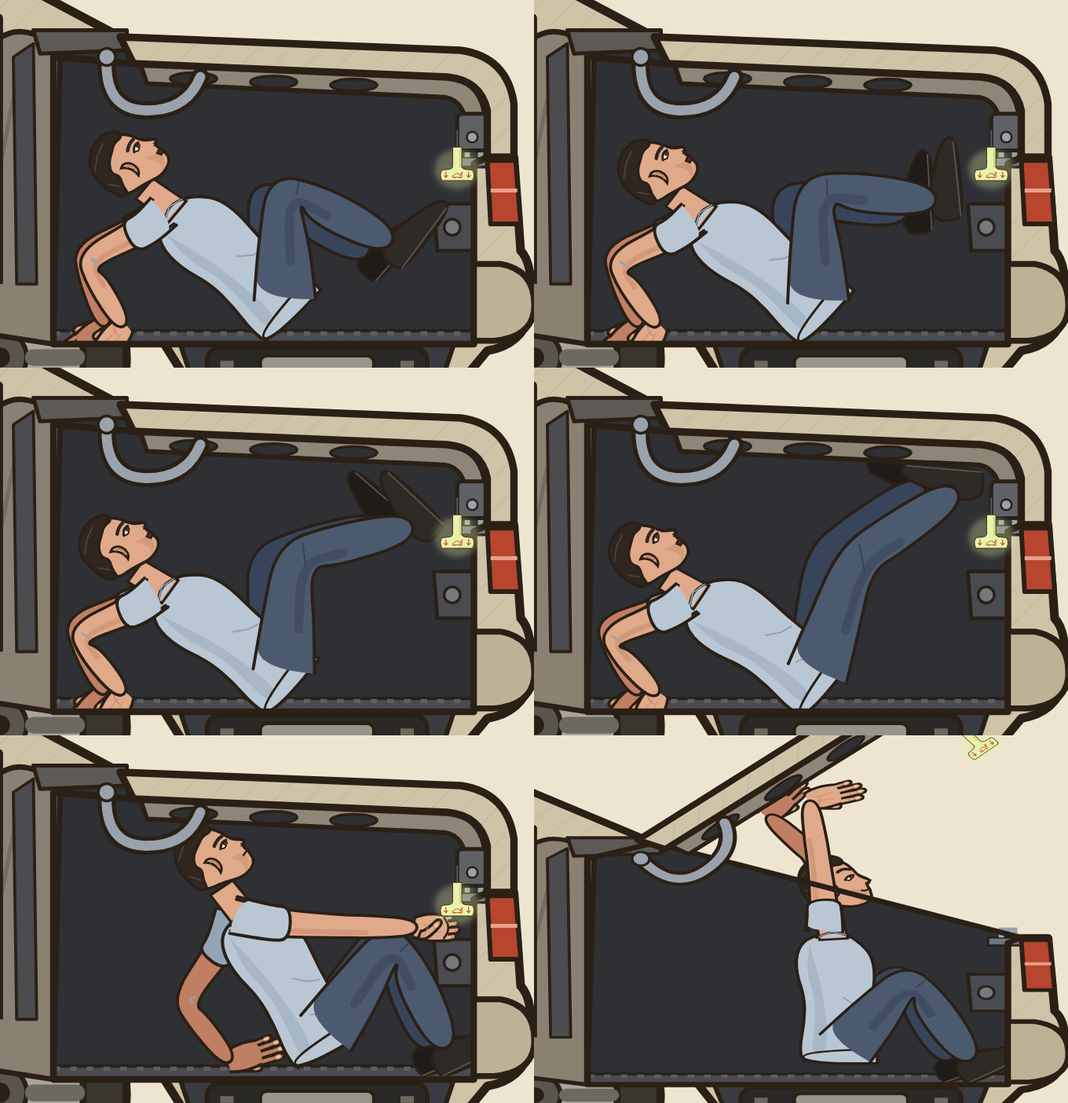
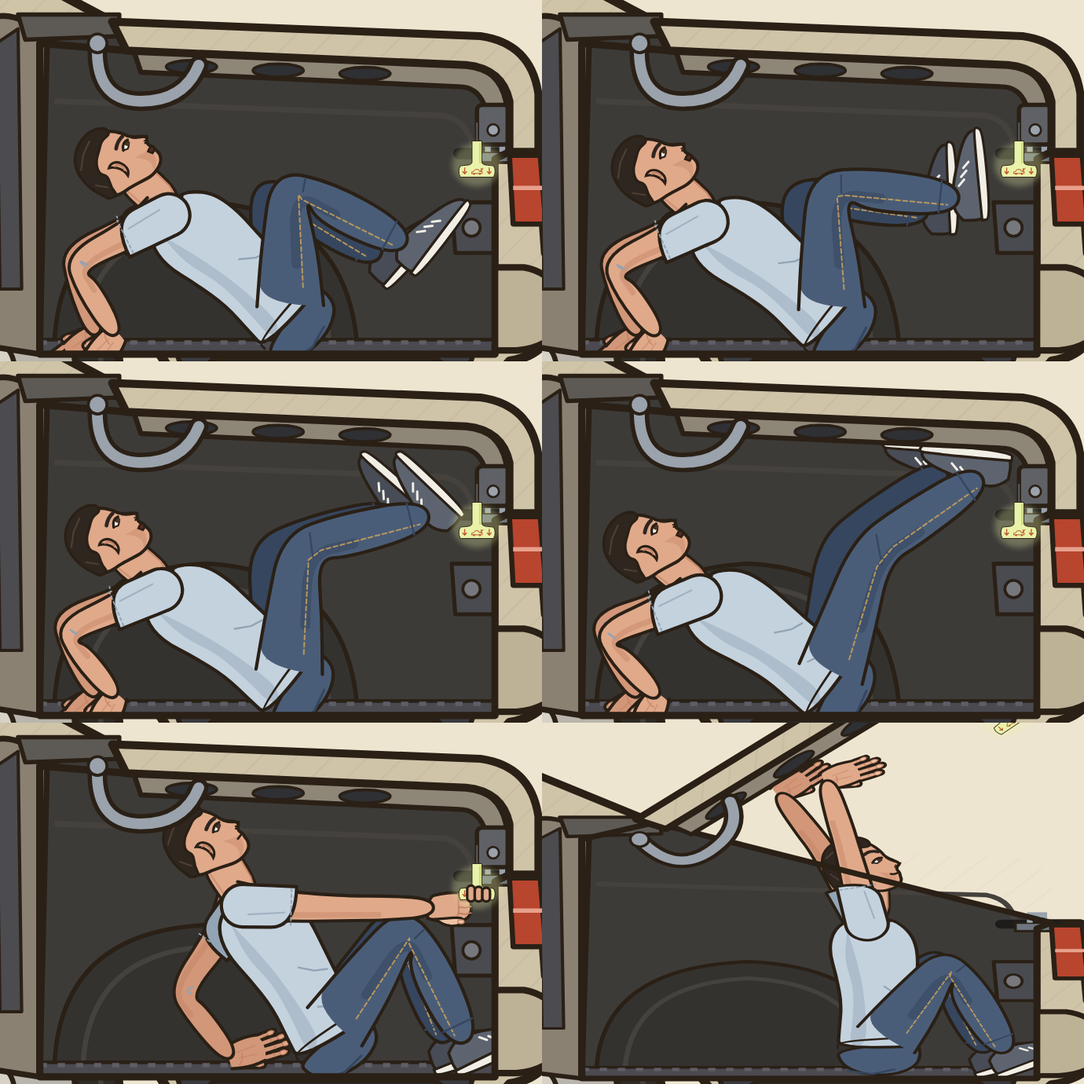
Person kit side view: neck, belt line, round sleeves, fist, jeans and sneakers; trunk-escape redrawn on real trunk photos
Claude-Session: https://claude.ai/code/session_01E23g9Wz2ZZM9xbT1iDgEt2

diff --git a/videos/_templates/people/person.js b/videos/_templates/people/person.js
@@ -360,9 +360,37 @@ function walkPose(ph, amp) {   // a walking cycle: ph in radians, both legs and 
   function leg(p) { var sw = Math.sin(p), k = Math.max(0, Math.sin(p + 2.07));   /* the knee bends most just after toe-off, straight while the foot is on the floor */ return { hip: 19 * sw * amp, knee: (6 + 58 * k * k) * amp, ankle: (sw > 0 ? -8 * sw : 14 * -sw) * amp }; }
   return { legs: [leg(ph), leg(ph + Math.PI)], arms: [{ sh: -20 * Math.sin(ph) * amp, el: (16 + 10 * Math.max(0, -Math.sin(ph))) * amp + 6, hand: "relaxed" }, { sh: 20 * Math.sin(ph) * amp, el: (16 + 10 * Math.max(0, Math.sin(ph))) * amp + 6, hand: "relaxed" }] };
 }
+// a short sleeve round the upper arm: hem at k of the upper arm, a round cap over the shoulder joint opposite the arm
+function pSleeve(sp, el, col, colD, k) {
+  var dx = el[0] - sp[0], dy = el[1] - sp[1], L = Math.hypot(dx, dy) || 1, ux = dx / L, uy = dy / L, nx = -uy, ny = ux, e = [sp[0] + dx * k, sp[1] + dy * k], hw = 14, pts = [];
+  pts.push([e[0] + nx * hw, e[1] + ny * hw]);
+  for (var a = -100; a <= 100; a += 20) { var r = a * Math.PI / 180, bx = -ux, by = -uy, cx = bx * Math.cos(r) - by * Math.sin(r), cy = bx * Math.sin(r) + by * Math.cos(r); pts.push([sp[0] + cx * 15 + nx * 0, sp[1] + cy * 15]); }
+  pts.reverse(); pts.unshift([e[0] - nx * hw, e[1] - ny * hw]);
+  var ring = [[e[0] - nx * hw, e[1] - ny * hw]].concat(pts.slice(1, pts.length - 1)).concat([[e[0] + nx * hw, e[1] + ny * hw]]);
+  var g = '<path d="' + pPath(ring, true) + '" fill="' + col + '" stroke="' + INK + '" stroke-width="2.3" stroke-linejoin="round"/>';
+  g += pLine([[e[0] - nx * hw * .9 - ux * 3.5, e[1] - ny * hw * .9 - uy * 3.5], [e[0] + nx * hw * .9 - ux * 3.5, e[1] + ny * hw * .9 - uy * 3.5]], colD, 1, ' stroke-dasharray="2 2"');
+  g += pLine([[sp[0] + nx * 6 + ux * 4, sp[1] + ny * 6 + uy * 4], [e[0] + nx * 4 - ux * 8, e[1] + ny * 4 - uy * 8]], colD, 1.2, ' opacity=".7"');
+  return g;
+}
+function pMixHex(a, b, k) { var x = parseInt(a.slice(1), 16), y = parseInt(b.slice(1), 16); return "#" + [16, 8, 0].map(function (sh) { var v = Math.round(((x >> sh) & 255) * (1 - k) + ((y >> sh) & 255) * k); return ("0" + v.toString(16)).slice(-2); }).join(""); }
+// a closed fist in profile: the knuckle block with four curled fingers stacked toward the viewer, the thumb folded across
+// them, the wrist flowing into the back of the hand. side ±1 puts the thumb on top or below.
+function pFistSide(w, ang, side, s, c) {
+  var ca = Math.cos(ang), sa = Math.sin(ang);
+  function P(x, y) { y *= side; return [w[0] + (x * ca - y * sa) * s, w[1] + (x * sa + y * ca) * s]; }
+  function D(pts) { return pPath(pts.map(function (p) { return P(p[0], p[1]); }), true); }
+  var g = '<path d="' + D([[-3, -7.5], [6, -10], [16, -10.5], [24, -8.5], [27.5, -3], [27, 4], [24, 9], [16, 10.5], [6, 9.5], [-3, 7.5]]) + '" fill="' + c.skin + '" stroke="' + INK + '" stroke-width="' + f(2.1 * s) + '" stroke-linejoin="round"/>';
+  // the curled fingers: three creases across the front, the knuckle ridge behind them
+  [-4.2, .2, 4.6].forEach(function (y) { g += pLine([P(18.5, y), P(23, y - .6), P(27, y + .3)], c.skinD, 1 * s); });
+  g += pLine([P(17, -9.5), P(18.5, -2), P(18, 9.5)], c.skinD, 1.1 * s, ' opacity=".8"');
+  g += '<path d="' + D([[2, -8], [10, -13], [19, -12.5], [22.5, -9.5], [20, -7], [11, -7.5]]) + '" fill="' + (c.skinL || c.skin) + '" stroke="' + INK + '" stroke-width="' + f(1.7 * s) + '"/>';   // the thumb
+  var n = P(20, -10); g += '<ellipse cx="' + f(n[0]) + '" cy="' + f(n[1]) + '" rx="' + f(2.2 * s) + '" ry="' + f(1.4 * s) + '" transform="rotate(' + f(ang * 180 / Math.PI) + ' ' + f(n[0]) + ' ' + f(n[1]) + ')" fill="' + (c.skinL || c.skin) + '" stroke="' + c.skinD + '" stroke-width="' + f(.7 * s) + '"/>';
+  return g;
+}
 function personSide(o) {
   var c = {}, k; for (k in PSN) c[k] = PSN[k];
   var OF = pOutfit(o, c);
+  c.skinM = pMixHex(c.skin, c.skinD, .45);
   var lean = (o.lean || 0) * Math.PI / 180, br = (o.breath || 0) * 1.4, fc = o.face || {}, hd = o.head || {};
   function T(h, x) { return [x * Math.cos(lean) + h * Math.sin(lean), -h * Math.cos(lean) + x * Math.sin(lean)]; }   // trunk frame: h up, x forward
   function V(a) { a = a * Math.PI / 180; return [Math.sin(a), Math.cos(a)]; }
@@ -380,17 +408,24 @@ function personSide(o) {
     var foot = [P(-14, -4), P(-15, 8), P(-10, 14), P(30, 14), P(46, 12), P(48, 6), P(40, 0), P(22, -6), P(6, -10), P(-8, -10)];
     var fcol = OF.feet === "socks" ? (i ? "#46464b" : c.socks) : (i ? "#1e1b18" : c.shoes);
     var boot = OF.feet === "boots" ? '<path d="' + pPath([P(-15, 6), P(-15, -24), P(12, -24), P(14, 0)], false) + '" fill="' + fcol + '" stroke="' + INK + '" stroke-width="2"/>' : "";
-    g = '<path d="' + pPath(foot, true) + '" fill="' + fcol + '" stroke="' + INK + '" stroke-width="2" stroke-linejoin="round"/>' + pLine([P(-12, 12), P(44, 11)], OF.feet === "socks" ? "#6e6e75" : "#5a534c", 1.1) + g + boot;
+    if (OF.jeans) g += pLine([L2p(top, kn, .15, 9), L2p(top, kn, .9, 7), L2p(kn, hem, .15, 6), L2p(kn, hem, .92, 5)], c.seam || "#c9a25a", 1.1, ' stroke-dasharray="3 2" opacity=".85"') + pLine([L2p(kn, hem, .86, -11), L2p(kn, hem, .86, 11)], c.pantsD, 1.3);
+    var sneak = OF.feet === "sneakers", sole = sneak ? '<path d="' + pPath([P(-15, 9), P(-15, 15), P(46, 15), P(50, 10), P(46, 8)], true) + '" fill="#f1eee6" stroke="' + INK + '" stroke-width="1.8"/>' + pLine([P(10, -5), P(14, -1)], "#f1eee6", 1.6) + pLine([P(16, -3), P(20, 1)], "#f1eee6", 1.6) + pLine([P(22, -1), P(26, 3)], "#f1eee6", 1.6) : "";
+    if (sneak) fcol = i ? (c.shoesD || "#4b4f58") : (c.shoes || "#646a75");
+    g = '<path d="' + pPath(foot, true) + '" fill="' + fcol + '" stroke="' + INK + '" stroke-width="2" stroke-linejoin="round"/>' + (sneak ? sole : pLine([P(-12, 12), P(44, 11)], OF.feet === "socks" ? "#6e6e75" : "#5a534c", 1.1)) + g + boot;
     part.leg[i] = g; if (!i) { J.knee = kn; J.ankle = an; J.toe = P(48, 6); J.heel = P(-14, 13); }
     J["foot" + i] = [P(-14, 14), P(48, 13)];
   });
   // ── trunk in profile: chest, back, the sweater's hem and collar ──
-  var fr = [[-4, 27], [10, 28], [30, 25], [56, 27 + br], [80, 31 + br], [98, 30], [110, 23], [120, 13]], bk = [[121, -13], [110, -25], [88, -28], [62, -23], [38, -25], [16, -30], [-2, -29]];
+  var tuck = OF.top === "shirt" || OF.over === "labcoat", hemH = tuck ? -2 : 5;
+  var fr = [[hemH, 25], [14, 26.5], [34, 24.5], [58, 27.5 + br], [82, 31 + br], [100, 30], [112, 24], [121, 14]], bk = [[123, -12], [114, -25], [96, -30], [72, -26.5], [46, -24.5], [22, -28], [hemH, -30]];
+  // the trousers' seat and waist (under the hem): one shape round the hip joint, so the buttock and the belt line read
+  var pelvis = '<path d="' + pPath([T(hemH + 3, 25.5), T(-4, 27), T(-14, 22), T(-20, 6), T(-18, -14), T(-8, -29), T(hemH + 3, -31)], true) + '" fill="' + c.pants + '" stroke="' + INK + '" stroke-width="2.3"/>' +
+    pLine([T(-14, -24), T(-18, -8), T(-15, 8)], c.pantsD, 1.6) + (tuck ? '<path d="' + pPath([T(5, 26), T(-1, 26.5), T(-1, -30.5), T(5, -30)], true) + '" fill="#3a2e24" stroke="' + INK + '" stroke-width="1.4"/>' : "");
   var torso = fr.concat(bk).map(function (q) { return T(q[0], q[1]); });
   var trunk = '<path d="' + pPath(torso, true) + '" fill="' + c.shirt + '" stroke="' + INK + '" stroke-width="2.4"/>';
   trunk += '<path d="' + pPath([T(112, -16), T(86, -20), T(60, -15), T(30, -18), T(8, -22), T(8, -10), T(40, -8), T(80, -10)], true) + '" fill="' + c.shirtD + '" opacity=".45"/>';
-  trunk += '<path d="' + pPath([T(2, 27), T(10, 27.5), T(10, -28), T(1, -28)], false) + '" stroke="' + INK + '" stroke-width="1.8" fill="none"/>';
-  if (OF.top === "sweater") for (var r = -24; r <= 24; r += 4) trunk += pLine([T(2.5, r), T(9, r)], c.shirtD, .9);
+  trunk += '<path d="' + pPath([T(hemH + 2, 25.5), T(hemH + 8, 26.5), T(hemH + 8, -29.5), T(hemH + 1, -30)], false) + '" stroke="' + INK + '" stroke-width="1.6" fill="none"/>';
+  if (OF.top === "sweater") for (var r = -24; r <= 24; r += 4) trunk += pLine([T(hemH + 1.5, r), T(hemH + 7, r)], c.shirtD, .9);
   if (OF.top === "shirt") { for (var bh = 96; bh > 14; bh -= 20) { var bp = T(bh, [26, 30, 28, 26, 27][Math.round((96 - bh) / 20)] - 3); trunk += '<circle cx="' + f(bp[0]) + '" cy="' + f(bp[1]) + '" r="1.6" fill="' + c.button + '" stroke="' + INK + '" stroke-width=".8"/>'; }
     if (OF.tie) trunk += '<path d="' + pPath([T(116, 12), T(110, 16), T(62, 31), T(58, 27), T(108, 11)], true) + '" fill="' + c.tie + '" stroke="' + INK + '" stroke-width="1.3"/>'; }
   if (OF.epaulettes) trunk += '<path d="M' + [T(121, -10), T(121, 10), T(116, 10), T(116, -10)].map(function (p) { return f(p[0]) + " " + f(p[1]); }).join(" L") + ' Z" fill="#262a36" stroke="' + INK + '" stroke-width="1.1"/>';
@@ -399,8 +434,11 @@ function personSide(o) {
   if (OF.over === "apron") trunk += '<path d="' + pPath([T(104, 30), T(104, 34), T(-64, 40), T(-66, 34)], true) + '" fill="' + c.apron + '" stroke="' + INK + '" stroke-width="2"/>' + pLine([T(104, 30), T(120, 12)], INK, 1.6) + pLine([T(20, 32), T(22, -30)], c.apronD, 3);
   trunk += pLine([T(60, 6), T(52, 14), T(48, 22)], c.shirtD, 1.3) + pLine([T(30, 2), T(24, 12)], c.shirtD, 1.2);
   // ── neck and head in profile, facing +x ──
-  var tilt = (hd.tilt || 0) + (o.lean || 0), hc = T(166 + br * .5, 6);
-  var neck = '<path d="M' + f(T(116, -8)[0]) + ' ' + f(T(116, -8)[1]) + ' L' + f(T(146, -10)[0]) + ' ' + f(T(146, -10)[1]) + ' L' + f(T(146, 10)[0]) + ' ' + f(T(146, 10)[1]) + ' L' + f(T(116, 13)[0]) + ' ' + f(T(116, 13)[1]) + ' Z" fill="' + c.skin + '" stroke="' + INK + '" stroke-width="2"/>' +
+  var tilt = (hd.tilt || 0) + (o.lean || 0), nj = T(144, 2), h0 = T(166 + br * .5, 6), ta = (hd.tilt || 0) * Math.PI / 180, ra = tilt * Math.PI / 180;
+  var hc = [nj[0] + (h0[0] - nj[0]) * Math.cos(ta) - (h0[1] - nj[1]) * Math.sin(ta), nj[1] + (h0[0] - nj[0]) * Math.sin(ta) + (h0[1] - nj[1]) * Math.cos(ta)];
+  function HW(x, y) { return [hc[0] + x * Math.cos(ra) - y * Math.sin(ra), hc[1] + x * Math.sin(ra) + y * Math.cos(ra)]; }
+  var neck = '<path d="' + pPath([T(112, -11), HW(-15, 9), HW(-8, 17), HW(6, 22), HW(12, 21), T(112, 13)], true) + '" fill="' + c.skin + '" stroke="' + INK + '" stroke-width="2"/>' +
+             pLine([HW(9, 23), L2p(HW(9, 23), T(114, 10), .5, -1.5), T(116, 8)], c.skinD, 1.2, ' opacity=".7"') + pLine([HW(-12, 12), T(118, -8)], c.skinD, 1.4, ' opacity=".5"') +
              '<path d="' + pPath([T(118, -11), T(124, 2), T(118, 15)], false) + '" stroke="' + INK + '" stroke-width="2" fill="' + c.shirt + '"/>' + pLine([T(119.5, -8), T(123, 2), T(119.5, 12)], c.shirtD, 1);
   var eo = fc.eyes == null ? 1 : fc.eyes, mo = fc.mouth || "neutral", h = "";
   var shape = [[-23, -4], [-19, -20], [-6, -28], [8, -26], [17, -18], [20.5, -8], [20.5, -4], [22, 0], [27.5, 7.5], [23, 10], [22.5, 12.5], [23, 15], [22, 17.5], [21, 22], [16, 25.5], [6, 25], [-2, 20], [-10, 15], [-17, 12], [-22, 6]];
@@ -428,18 +466,19 @@ function personSide(o) {
     var coat = OF.over === "labcoat", sc = coat ? (i ? c.coatD : c.coat) : (i ? c.shirtD : c.shirt), g;
     if (OF.top === "tshirt" && !coat) {
       var bare = [T(124, -4), L2p(sp, el, .35, 0), el, L2p(el, wr, .35, 0), wr], bw = [24, 21, 17, 17, 13];
-      g = pLimbDraw(pLimb(bare, bw, false), i ? c.skinD : c.skin, 1, pShade(bare, bw, c.skinD, 1, .4), 2.2) + pLimbDraw(pLimb([T(124, -4), L2p(sp, el, .3, 0), L2p(sp, el, .5, 0)], [28, 26, 25], false), sc, 1, "", 2.3);
+      g = pLimbDraw(pLimb(bare, bw, false), i ? c.skinM : c.skin, 1, pShade(bare, bw, c.skinD, 1, .4), 2.2) + pSleeve(sp, el, sc, i ? c.shirtD : c.shirtD, .5);
     } else {
       g = pLimbDraw(pLimb(ap, aw, false), sc, 1, pShade(ap, aw, coat ? c.coatD : c.shirtD, 1, i ? .3 : .55), 2.3);
       g += pLimbDraw(pLimb([cuff, [el[0] + V(fa)[0] * 59, el[1] + V(fa)[1] * 59]], [17.5, 16.5], false), coat ? (i ? c.shirtD : c.shirt) : sc, 1, "", 2);
     }
     if ((A.el || 0) > 25) g += '<path d="' + pPath([L2p(el, sp, .12, 6), [el[0] + 4, el[1] + 2], L2p(el, wr, .12, -6)], false) + '" stroke="' + c.shirtD + '" stroke-width="1.3" fill="none"/>';
     var ha = Math.atan2(V(fa + (A.wrist || 0))[1], V(fa + (A.wrist || 0))[0]);
-    g = G("", pHand([wr[0] - Math.cos(ha) * 1, wr[1] - Math.sin(ha) * 1], ha, A.hand || "relaxed", -1, 1, i ? Object.assign({}, c, { skin: c.skinD }) : c, false)) + g;
+    var hc_ = i ? Object.assign({}, c, { skin: c.skinM, skinL: c.skin }) : c;
+    g = G("", (A.hand === "fist" ? pFistSide([wr[0] - Math.cos(ha) * 1, wr[1] - Math.sin(ha) * 1], ha, A.grip ? 1 : -1, 1, hc_) : pHand([wr[0] - Math.cos(ha) * 1, wr[1] - Math.sin(ha) * 1], ha, A.hand || "relaxed", -1, 1, hc_, false))) + g;
     part.arm[i] = g; if (!i) { J.wrist = wr; J.elbow = el; }
   });
   var coatSvg = OF.over === "labcoat" ? '<path d="' + pPath([T(121, -14), T(121, 16), T(96, 34), T(30, 32), T(-66, 38), T(-68, -34), T(30, -32), T(96, -30)], true) + '" fill="' + c.coat + '" stroke="' + INK + '" stroke-width="2.2"/>' + pLine([T(112, 18), T(70, 30), T(60, 33)], c.coatD, 2) + pLine([T(-10, 30), T(-60, 34)], c.coatD, 1.3) : "";
-  var body = part.arm[1] + part.leg[1] + trunk + part.leg[0] + coatSvg + neck + head + part.arm[0];
+  var body = part.arm[1] + part.leg[1] + pelvis + trunk + part.leg[0] + coatSvg + neck + head + part.arm[0];
   var s = o.s || 1, dir = o.dir || 1;
   J.toLocal = function (p) { return p; };
   var tr = "translate(" + f(o.x) + " " + f(o.y) + ") rotate(" + f(o.rot || 0) + ") scale(" + f(s * dir) + " " + f(s) + ")";

diff --git a/videos/trunk-escape/sketch/scenes.js b/videos/trunk-escape/sketch/scenes.js
@@ -167,7 +167,7 @@ function tag(text, x, y, k, sz, col) { k = pop(k == null ? 1 : k); if (k <= 0) r
 
 function L2(a, b, k) { return [lerp(a[0], b[0], k), lerp(a[1], b[1], k)]; }
 function D2R(a) { return a * Math.PI / 180; }
-var BODY = "#cfc4a8", BODY_D = "#b3a585", GLASS = "#cfdde3", DARK = "#2f3034", DARK2 = "#3c3d42", CARPET = "#4a4a50",
+var LINING = "#3d3b38", BODY = "#cfc4a8", BODY_D = "#b3a585", GLASS = "#cfdde3", DARK = "#2f3034", DARK2 = "#3c3d42", CARPET = "#4a4a50",
     STEEL = "#9aa2ac", STEEL_D = "#6e757e", GLOW = "#e9f2a8", GLOW_D = "#b9c86a", TAIL = "#b8452e", SEAT = "#8a8173";
 
 // ── the car: a compact sedan in profile, front to the left, real size (1 m = 120 units): length 4.8 m, height 1.47 m,
@@ -186,8 +186,11 @@ var LID = "M456 -134 L558 -130 Q572 -128 574 -114 L574 -98 L566 -98 L566 -112 Q5
 var TRUNK = "M436 -128 L460 -126 L554 -122 Q564 -121 566 -112 L566 -98 L562 -96 L562 -42 L436 -42 Z";
 var TRUNK_OPEN = "M436 -128 L456 -134 L566 -98 L562 -96 L562 -42 L436 -42 Z", TRUNK_AIR = "M436 -128 L456 -134 L456 -400 L800 -400 L800 -98 L562 -96 L562 -42 L436 -42 Z";
 var FLOOR = -46, LATCH = [565, -102], RW = 420;
-function wheel(x, t, spin, sw) { var a = (spin || 0) * t * 200, s = C(x, -38, 38, "#3a352e", 2.4 * sw) + C(x, -38, 25, "#a9a59c", 2 * sw) + C(x, -38, 8, "#5a554d", 1.4 * sw) + C(x, -38, 3, INK, 0);
-  for (var i = 0; i < 5; i++) { var b = (a + i * 72) * Math.PI / 180; s += '<path d="M' + f(x + Math.cos(b) * 10) + ' ' + f(-38 + Math.sin(b) * 10) + ' L' + f(x + Math.cos(b) * 23) + ' ' + f(-38 + Math.sin(b) * 23) + '" stroke="#6e695f" stroke-width="' + f(5 * sw) + '" stroke-linecap="round"/>'; } return s; }
+function wheel(x, t, spin, sw) {
+  var a = (spin || 0) * t * 200, s = C(x, -38, 38, "#2f2b26", 2.4 * sw) + '<circle cx="' + x + '" cy="-38" r="33" fill="none" stroke="#45403a" stroke-width="' + f(1.4 * sw) + '"/>' + C(x, -38, 26, "#b9b5ac", 2 * sw);
+  for (var i = 0; i < 10; i++) { var b = (a + i * 36) * Math.PI / 180, b2 = b + .12; s += '<path d="M' + f(x + Math.cos(b) * 8) + ' ' + f(-38 + Math.sin(b) * 8) + ' L' + f(x + Math.cos(b) * 24) + ' ' + f(-38 + Math.sin(b) * 24) + ' L' + f(x + Math.cos(b2) * 24) + ' ' + f(-38 + Math.sin(b2) * 24) + ' Z" fill="#8f8a80" stroke="#77726a" stroke-width=".6"/>'; }
+  return s + C(x, -38, 9, "#d6d2c8", 1.4 * sw) + C(x, -38, 3, INK, 0);
+}
 // the lid's inside: inner panel frame with holes, the gooseneck arm, the latch box at its rear edge (all in closed-lid coords)
 function lidInner(sw, lidIn) {
   var g = P("M462 -126 L554 -122 Q563 -121 565 -112 L565 -104 L559 -104 L559 -111 Q557 -116 552 -116 L464 -120 Z", "#8e8778", 1.4 * sw);
@@ -204,6 +207,7 @@ function car(o) {
   var t = o.t || 0, sc = o.sc || 1, sw = 1 / Math.sqrt(sc), g = "";
   g += '<ellipse cx="290" cy="2" rx="290" ry="8" fill="' + INK + '" opacity=".14"/>';
   g += P(CAR_P, BODY, 2.6 * sw) + '<path d="' + CAR_P + '" fill="url(#hatch)" opacity=".3"/>';
+  g += '<path d="M160 -52 H372" stroke="' + BODY_D + '" stroke-width="' + f(2 * sw) + '"/><path d="M40 -80 Q200 -86 420 -91" stroke="' + BODY_D + '" stroke-width="' + f(1.2 * sw) + '" fill="none"/>';
   g += P(CABIN, "#efe6d2", 1.6 * sw);
   g += P("M154 -98 L202 -102 L204 -86 L156 -72 Z", "#7c7468", 1.6 * sw);
   g += P("M216 -66 L280 -66 L284 -52 L218 -50 Z", SEAT, 1.6 * sw) + P("M276 -66 L296 -146 Q304 -150 308 -142 L296 -58 Z", SEAT, 1.6 * sw) + R(294, -160, 16, 18, SEAT, 1.4 * sw, 4);
@@ -211,7 +215,10 @@ function car(o) {
   g += wheel(112, t, o.spin, sw) + wheel(RW, t, o.spin, sw);
   // ── the trunk, cut on the centre line ──
   var tid = "tr" + (++CLIPN), lk = clamp((o.lid || 0) * 4);
-  g += P(TRUNK_OPEN, DARK, 1.6 * sw) + G("", P(TRUNK, DARK, 0), 1 - lk);
+  g += P(TRUNK_OPEN, LINING, 1.6 * sw) + G("", P(TRUNK, LINING, 0), 1 - lk) + '<path d="' + TRUNK + '" fill="url(#hatch)" opacity=".18"/>';
+  // the far side's wheel housing (carpeted hump) and the side lining's moulded edge, seen through the cut
+  g += P("M440 -42 Q440 -82 482 -84 Q522 -82 524 -42 Z", "#34322f", 1.2 * sw) + '<path d="M448 -46 Q450 -76 482 -78 Q514 -76 516 -46" fill="none" stroke="#45423e" stroke-width="' + f(1.4 * sw) + '"/>';
+  g += '<path d="M440 -112 Q500 -110 548 -108 Q556 -106 556 -96" fill="none" stroke="#45423e" stroke-width="' + f(1.6 * sw) + '"/>';
   // the rear seat's back (the trunk's front wall) with its belt, and the parcel shelf
   g += P("M404 -62 L418 -132 Q424 -138 432 -134 L438 -128 L436 -42 L410 -46 Z", SEAT, 1.6 * sw) + '<path d="M414 -64 L426 -126" stroke="#766d60" stroke-width="' + f(1.2 * sw) + '"/>' + P("M424 -128 L430 -132 L431 -60 L425 -60 Z", "#4c4b4f", .9 * sw);
   g += P("M430 -136 L458 -136 L458 -130 L432 -129 Z", "#5d5a55", 1.2 * sw);
@@ -222,7 +229,7 @@ function car(o) {
   g += R(436, FLOOR, 126, 4, CARPET, 1 * sw) + '<path d="M436 ' + (FLOOR + .8) + ' H562" stroke="#5e5e66" stroke-width="' + f(1.2 * sw) + '" stroke-dasharray="2 3"/>';
   // the back of the rear lamp housing in the corner, with its bulb holder; the rear sill and the striker
   g += P("M550 -84 L562 -84 L562 -70 L551 -70 Z", "#4a4b50", 1.1 * sw) + C(555.5, -77, 2.4, "#77787d", .8 * sw);
-  g += R(556, -98, 10, 3, STEEL_D, .8 * sw) + '<path d="M560 -98 L560 -101 L564 -101 L564 -98" fill="none" stroke="' + STEEL + '" stroke-width="' + f(1.6 * sw) + '"/>';
+  g += '<path d="M552 -97.5 H567" stroke="#1d1c1b" stroke-width="' + f(3.2 * sw) + '" stroke-linecap="round"/>' + R(556, -98, 10, 3, STEEL_D, .8 * sw) + '<path d="M560 -98 L560 -101 L564 -101 L564 -98" fill="none" stroke="' + STEEL + '" stroke-width="' + f(1.6 * sw) + '"/>';
   g += '<clipPath id="' + tid + '"><path d="' + (lk > 0 ? TRUNK_AIR : TRUNK) + '"/></clipPath><g clip-path="url(#' + tid + ')">';
   if (o.people) g += o.people(t);
   if (o.dark) g += '<rect x="420" y="-140" width="160" height="100" fill="#000" opacity="' + f(.2 * o.dark) + '"/>';
@@ -230,12 +237,13 @@ function car(o) {
   // windows, pillars, doors, lights, bumper, plate
   g += '<g opacity=".7"><path d="' + WIN_F + '" fill="' + GLASS + '"/><path d="' + WIN_R + '" fill="' + GLASS + '"/></g>' + P(WIN_F, "none", 2 * sw) + P(WIN_R, "none", 2 * sw) + R(300, -166, 10, 120, BODY, 2 * sw);
   g += '<path d="M160 -118 L156 -48 M300 -118 L300 -46 M420 -140 L420 -60" stroke="' + INK + '" stroke-width="' + f(1.8 * sw) + '" fill="none"/>' + R(258, -102, 22, 6, INK, 0, 3) + R(390, -102, 22, 6, INK, 0, 3);
-  g += P("M6 -88 L26 -96 L28 -86 L8 -82 Z", "#f4efe3", 1.4 * sw);
+  g += P("M6 -88 L26 -96 L28 -86 L8 -82 Z", "#f4efe3", 1.4 * sw) + P("M226 -118 L246 -122 L248 -110 L230 -108 Z", BODY_D, 1.4 * sw);
   g += P("M566 -97 L574.5 -97 L576 -78 L567 -78 Z", TAIL, 1.4 * sw, o.hlTail ? ' style="filter:drop-shadow(0 0 ' + f(5 * o.hlTail) + 'px ' + ORANGE + ')"' : "") + '<path d="M567 -88 H575" stroke="#e7a08c" stroke-width="' + f(1.2 * sw) + '"/>';
   g += P("M570 -66 Q581 -64 580 -52 Q579 -44 568 -43 L562 -43 L562 -66 Z", "#bdb196", 1.8 * sw);
   // the lid: outer skin and the inner frame turn together round the gooseneck pivot; a kick makes it jolt
   var ang = -55 * ease(clamp(o.lid || 0)) - 1.4 * (o.shake || 0);
   g += G("rotate(" + f(ang) + " " + HINGE[0] + " " + HINGE[1] + ")", lidInner(sw, o.lidIn) + P(LID, BODY, 2.2 * sw) + '<path d="' + LID + '" fill="url(#hatch)" opacity=".3"/>');
+  if (o.over) g += o.over(t);   // what sits in front of the lid's parts: the fingers closed round the handle
   return G("translate(" + f(o.x) + " " + f(o.y) + ") scale(" + f(sc) + ") translate(-570 0)", g);
 }
 
@@ -263,7 +271,7 @@ function trapped(o) {
   var legs = o.feet.map(function (a, i) { var L = legTo(hip, a, rot); L.ankle = (o.ankle && o.ankle.length ? o.ankle[i] : o.ankle) || 0; return L; });
   var rest = [[hip[0] - 14, FLOOR - 1], [hip[0] - 20, FLOOR - 1]];
   var arms = [0, 1].map(function (i) { var w = (o.hands && o.hands[i]) || rest[i], A = armTo(sh, w, rot, o.straight && o.straight[i]); A.hand = (o.hk && o.hk[i]) || "flat"; if (o.wrist) A.wrist = o.wrist[i]; return A; });
-  var P_ = PERSON.side({ x: hip[0], y: hip[1], s: PS, dir: DIR, rot: rot, outfit: { base: "casual", colors: { shirt: "#b9c7d4", shirtD: "#93a4b4", pants: "#4b5a6e", pantsD: "#38445a" } }, breath: (Math.sin(t * 3.1) + 1) / 2, legs: legs, arms: arms,
+  var P_ = PERSON.side({ x: hip[0], y: hip[1], s: PS, dir: DIR, rot: rot, outfit: { base: "casual", jeans: true, feet: "sneakers", colors: { shirt: "#c4d2de", shirtD: "#93a4b4", pants: "#4a5d78", pantsD: "#36465e", shoes: "#5d6470", shoesD: "#474c56" } }, breath: (Math.sin(t * 3.1) + 1) / 2, legs: legs, arms: arms,
     head: { tilt: o.tilt || 0 }, face: Object.assign({ eyes: 1.2, brows: "worried", mouth: "open" }, o.face || {}) });
   return P_.svg;
 }
@@ -280,6 +288,10 @@ function reachPose(hand, t, o) {
   o = o || {};
   return trapped(Object.assign({ hip: HIP_R, rot: -34, feet: FEET_R, ankle: 0, hands: [hand, [486, FLOOR - 1]], hk: ["fist", "flat"], wrist: [0, 70], t: t, tilt: -16, face: { eyes: 1.1, brows: "angry", mouth: "neutral" } }, o));
 }
+// the fingers closed round the handle's stem (drawn over the handle): the front of the fist, three creases
+function gripFingers(p, k) { p = p || GRIP; var c = PERSON.colors, g = ""; [-2.1, 0, 2.1].forEach(function (dx, i) { g += '<rect x="' + f(p[0] + dx - 1.05) + '" y="' + f(p[1] - 2.3 + i * .3) + '" width="2.1" height="' + f(4.4 - i * .3) + '" rx="1" fill="' + c.skin + '" stroke="' + INK + '" stroke-width=".7"/>'; }); return G("", g, k == null ? 1 : k); }
+// the wrist target that puts the fist's middle on point p, coming from the shoulder
+function wristFor(p, hip, rot) { var sh = kitW(hip[0], hip[1], rot, [-2, -117]), dx = p[0] - sh[0], dy = p[1] - sh[1], L = Math.hypot(dx, dy); return [p[0] - dx / L * 6, p[1] - dy / L * 6]; }
 function kickK(t, per) { var p = (t % per) / per; return p < .25 ? ease(p / .25) : 1 - ease((p - .25) / .75); }
 function kickHit(t, per) { var p = (t % per) / per; return p > .22 && p < .4 ? 1 - Math.abs(p - .28) / .12 : 0; }
 // impact star at a hit
@@ -346,7 +358,7 @@ function latchCut(cx, cy, s, open, hl, t) {
 // rear bumper at world (X, Y); Wp(local) gives the world point of a local car point.
 var X = 610, Y = 690, S = 3.6;
 function Wp(p, x, y, sc) { return [(x || X) + (p[0] - 570) * (sc || S), (y || Y) + p[1] * (sc || S)]; }
-var HD = [557, -101];   // where the handle hangs under the lid (local)
+var HD = [557, -101], GRIP = [HD[0] + .4, HD[1] + 8.4];   // where the handle hangs under the lid (local)
 function handleSmall(gl, pull, t) { return '<g transform="translate(' + HD[0] + ' ' + HD[1] + ') scale(.085)">' + handleT(0, 0, 1, gl, pull, t) + '</g>'; }
 function road(t, y, run) { return R(-600, y, 1840, 400, "#cbc2ad", 0) + '<path d="M-600 ' + y + ' H1240" stroke="' + INK + '" stroke-width="2.4"/>' + '<path d="M-600 ' + f(y + 50) + ' H1240" stroke="#efe9da" stroke-width="6" stroke-dasharray="54 40" stroke-dashoffset="' + f((run || 0) * t * 90) + '"/>'; }
 var FACE_KICK = { eyes: 1.25, brows: "angry", mouth: "open" };
@@ -391,8 +403,8 @@ shot(8, push(330, 420, 1.0, 1.04), function (u, d, t) {
 // 9 · «اسحبه، وبعدين زق الغطا لفوق.» — the fist pulls the handle down, the latch lets go, both hands push the lid up
 function lidPt(p, lid) { var a = D2R(-55 * ease(clamp(lid))), dx = p[0] - HINGE[0], dy = p[1] - HINGE[1]; return [HINGE[0] + dx * Math.cos(a) - dy * Math.sin(a), HINGE[1] + dx * Math.sin(a) + dy * Math.cos(a)]; }
 shot(9, push(330, 430, 1.0, .9), function (u, d, t) {
-  var pull = at(u, .3, .5), lid = .6 * at(u, 1.3, 1.6), g = [HD[0] - 1, HD[1] + 10 + 4 * pull], hk = lid;
-  return paper() + road(0, Y) + car({ x: X, y: Y, sc: S, t: t, lid: lid, lidIn: handleSmall(1, pull * (1 - clamp(lid * 3)), t), people: function (tt) {
+  var pull = at(u, .3, .5), lid = .6 * at(u, 1.3, 1.6), gp = [GRIP[0], GRIP[1] + 3.4 * pull * (1 - clamp(lid * 3))], g = wristFor(gp, HIP_R, -34), hk = lid;
+  return paper() + road(0, Y) + car({ x: X, y: Y, sc: S, t: t, lid: lid, lidIn: handleSmall(1, pull * (1 - clamp(lid * 3)), t), over: function () { return lid < .02 ? gripFingers(gp) : ""; }, people: function (tt) {
       var h0 = lid > 0 ? lidPt([512, -122], hk) : g, h1 = lid > 0 ? lidPt([496, -124], hk) : null;
       if (lid > 0 && lid < .15) h0 = L2(g, h0, lid / .15);
       return reachPose(h0, tt, { rot: lerp(-34, -4, lid / .6), hands: [h0, h1 ? (lid < .15 ? L2([462, -54], h1, lid / .15) : h1) : null], hk: ["fist", lid > 0 ? "flat" : "relaxed"], wrist: lid > 0 ? [-80, -80] : null,
@@ -422,6 +434,6 @@ SCENE.intro = function (svg, t, li) {
 };
 SCENE.bumper = function (u, t) { return '<g transform="translate(90 40) scale(.55)">' + handleT(0, 20, 1, 1, 0, t) + '</g>'; };
 SCENE.outro = function (svg, u, t) {
-  return car({ x: 590, y: 270, sc: .98, t: t, lidIn: handleSmall(1, 0, t), people: function (tt) { return reachPose([HD[0] - 1, HD[1] + 10], tt, { face: { eyes: 1, brows: "raised", mouth: "smile" } }); } }) +
+  return car({ x: 590, y: 270, sc: .98, t: t, lidIn: handleSmall(1, 0, t), people: function (tt) { return reachPose(wristFor(GRIP, HIP_R, -34), tt, { face: { eyes: 1, brows: "raised", mouth: "smile" } }); }, over: function () { return gripFingers(); } }) +
     callout("1", 470, 60, ease(u / .3)) + callout("2", 548, 120, ease(u / .3 - .5)) + callout("3", 120, 60, ease(u / .3 - 1)) + callout("4", 380, 120, ease(u / .3 - 1.5));
 };

diff --git a/videos/trunk-escape/sketch/shots.js b/videos/trunk-escape/sketch/shots.js
@@ -6,7 +6,7 @@
 
 function L2(a, b, k) { return [lerp(a[0], b[0], k), lerp(a[1], b[1], k)]; }
 function D2R(a) { return a * Math.PI / 180; }
-var BODY = "#cfc4a8", BODY_D = "#b3a585", GLASS = "#cfdde3", DARK = "#2f3034", DARK2 = "#3c3d42", CARPET = "#4a4a50",
+var LINING = "#3d3b38", BODY = "#cfc4a8", BODY_D = "#b3a585", GLASS = "#cfdde3", DARK = "#2f3034", DARK2 = "#3c3d42", CARPET = "#4a4a50",
     STEEL = "#9aa2ac", STEEL_D = "#6e757e", GLOW = "#e9f2a8", GLOW_D = "#b9c86a", TAIL = "#b8452e", SEAT = "#8a8173";
 
 // ── the car: a compact sedan in profile, front to the left, real size (1 m = 120 units): length 4.8 m, height 1.47 m,
@@ -25,8 +25,11 @@ var LID = "M456 -134 L558 -130 Q572 -128 574 -114 L574 -98 L566 -98 L566 -112 Q5
 var TRUNK = "M436 -128 L460 -126 L554 -122 Q564 -121 566 -112 L566 -98 L562 -96 L562 -42 L436 -42 Z";
 var TRUNK_OPEN = "M436 -128 L456 -134 L566 -98 L562 -96 L562 -42 L436 -42 Z", TRUNK_AIR = "M436 -128 L456 -134 L456 -400 L800 -400 L800 -98 L562 -96 L562 -42 L436 -42 Z";
 var FLOOR = -46, LATCH = [565, -102], RW = 420;
-function wheel(x, t, spin, sw) { var a = (spin || 0) * t * 200, s = C(x, -38, 38, "#3a352e", 2.4 * sw) + C(x, -38, 25, "#a9a59c", 2 * sw) + C(x, -38, 8, "#5a554d", 1.4 * sw) + C(x, -38, 3, INK, 0);
-  for (var i = 0; i < 5; i++) { var b = (a + i * 72) * Math.PI / 180; s += '<path d="M' + f(x + Math.cos(b) * 10) + ' ' + f(-38 + Math.sin(b) * 10) + ' L' + f(x + Math.cos(b) * 23) + ' ' + f(-38 + Math.sin(b) * 23) + '" stroke="#6e695f" stroke-width="' + f(5 * sw) + '" stroke-linecap="round"/>'; } return s; }
+function wheel(x, t, spin, sw) {
+  var a = (spin || 0) * t * 200, s = C(x, -38, 38, "#2f2b26", 2.4 * sw) + '<circle cx="' + x + '" cy="-38" r="33" fill="none" stroke="#45403a" stroke-width="' + f(1.4 * sw) + '"/>' + C(x, -38, 26, "#b9b5ac", 2 * sw);
+  for (var i = 0; i < 10; i++) { var b = (a + i * 36) * Math.PI / 180, b2 = b + .12; s += '<path d="M' + f(x + Math.cos(b) * 8) + ' ' + f(-38 + Math.sin(b) * 8) + ' L' + f(x + Math.cos(b) * 24) + ' ' + f(-38 + Math.sin(b) * 24) + ' L' + f(x + Math.cos(b2) * 24) + ' ' + f(-38 + Math.sin(b2) * 24) + ' Z" fill="#8f8a80" stroke="#77726a" stroke-width=".6"/>'; }
+  return s + C(x, -38, 9, "#d6d2c8", 1.4 * sw) + C(x, -38, 3, INK, 0);
+}
 // the lid's inside: inner panel frame with holes, the gooseneck arm, the latch box at its rear edge (all in closed-lid coords)
 function lidInner(sw, lidIn) {
   var g = P("M462 -126 L554 -122 Q563 -121 565 -112 L565 -104 L559 -104 L559 -111 Q557 -116 552 -116 L464 -120 Z", "#8e8778", 1.4 * sw);
@@ -43,6 +46,7 @@ function car(o) {
   var t = o.t || 0, sc = o.sc || 1, sw = 1 / Math.sqrt(sc), g = "";
   g += '<ellipse cx="290" cy="2" rx="290" ry="8" fill="' + INK + '" opacity=".14"/>';
   g += P(CAR_P, BODY, 2.6 * sw) + '<path d="' + CAR_P + '" fill="url(#hatch)" opacity=".3"/>';
+  g += '<path d="M160 -52 H372" stroke="' + BODY_D + '" stroke-width="' + f(2 * sw) + '"/><path d="M40 -80 Q200 -86 420 -91" stroke="' + BODY_D + '" stroke-width="' + f(1.2 * sw) + '" fill="none"/>';
   g += P(CABIN, "#efe6d2", 1.6 * sw);
   g += P("M154 -98 L202 -102 L204 -86 L156 -72 Z", "#7c7468", 1.6 * sw);
   g += P("M216 -66 L280 -66 L284 -52 L218 -50 Z", SEAT, 1.6 * sw) + P("M276 -66 L296 -146 Q304 -150 308 -142 L296 -58 Z", SEAT, 1.6 * sw) + R(294, -160, 16, 18, SEAT, 1.4 * sw, 4);
@@ -50,7 +54,10 @@ function car(o) {
   g += wheel(112, t, o.spin, sw) + wheel(RW, t, o.spin, sw);
   // ── the trunk, cut on the centre line ──
   var tid = "tr" + (++CLIPN), lk = clamp((o.lid || 0) * 4);
-  g += P(TRUNK_OPEN, DARK, 1.6 * sw) + G("", P(TRUNK, DARK, 0), 1 - lk);
+  g += P(TRUNK_OPEN, LINING, 1.6 * sw) + G("", P(TRUNK, LINING, 0), 1 - lk) + '<path d="' + TRUNK + '" fill="url(#hatch)" opacity=".18"/>';
+  // the far side's wheel housing (carpeted hump) and the side lining's moulded edge, seen through the cut
+  g += P("M440 -42 Q440 -82 482 -84 Q522 -82 524 -42 Z", "#34322f", 1.2 * sw) + '<path d="M448 -46 Q450 -76 482 -78 Q514 -76 516 -46" fill="none" stroke="#45423e" stroke-width="' + f(1.4 * sw) + '"/>';
+  g += '<path d="M440 -112 Q500 -110 548 -108 Q556 -106 556 -96" fill="none" stroke="#45423e" stroke-width="' + f(1.6 * sw) + '"/>';
   // the rear seat's back (the trunk's front wall) with its belt, and the parcel shelf
   g += P("M404 -62 L418 -132 Q424 -138 432 -134 L438 -128 L436 -42 L410 -46 Z", SEAT, 1.6 * sw) + '<path d="M414 -64 L426 -126" stroke="#766d60" stroke-width="' + f(1.2 * sw) + '"/>' + P("M424 -128 L430 -132 L431 -60 L425 -60 Z", "#4c4b4f", .9 * sw);
   g += P("M430 -136 L458 -136 L458 -130 L432 -129 Z", "#5d5a55", 1.2 * sw);
@@ -61,7 +68,7 @@ function car(o) {
   g += R(436, FLOOR, 126, 4, CARPET, 1 * sw) + '<path d="M436 ' + (FLOOR + .8) + ' H562" stroke="#5e5e66" stroke-width="' + f(1.2 * sw) + '" stroke-dasharray="2 3"/>';
   // the back of the rear lamp housing in the corner, with its bulb holder; the rear sill and the striker
   g += P("M550 -84 L562 -84 L562 -70 L551 -70 Z", "#4a4b50", 1.1 * sw) + C(555.5, -77, 2.4, "#77787d", .8 * sw);
-  g += R(556, -98, 10, 3, STEEL_D, .8 * sw) + '<path d="M560 -98 L560 -101 L564 -101 L564 -98" fill="none" stroke="' + STEEL + '" stroke-width="' + f(1.6 * sw) + '"/>';
+  g += '<path d="M552 -97.5 H567" stroke="#1d1c1b" stroke-width="' + f(3.2 * sw) + '" stroke-linecap="round"/>' + R(556, -98, 10, 3, STEEL_D, .8 * sw) + '<path d="M560 -98 L560 -101 L564 -101 L564 -98" fill="none" stroke="' + STEEL + '" stroke-width="' + f(1.6 * sw) + '"/>';
   g += '<clipPath id="' + tid + '"><path d="' + (lk > 0 ? TRUNK_AIR : TRUNK) + '"/></clipPath><g clip-path="url(#' + tid + ')">';
   if (o.people) g += o.people(t);
   if (o.dark) g += '<rect x="420" y="-140" width="160" height="100" fill="#000" opacity="' + f(.2 * o.dark) + '"/>';
@@ -69,12 +76,13 @@ function car(o) {
   // windows, pillars, doors, lights, bumper, plate
   g += '<g opacity=".7"><path d="' + WIN_F + '" fill="' + GLASS + '"/><path d="' + WIN_R + '" fill="' + GLASS + '"/></g>' + P(WIN_F, "none", 2 * sw) + P(WIN_R, "none", 2 * sw) + R(300, -166, 10, 120, BODY, 2 * sw);
   g += '<path d="M160 -118 L156 -48 M300 -118 L300 -46 M420 -140 L420 -60" stroke="' + INK + '" stroke-width="' + f(1.8 * sw) + '" fill="none"/>' + R(258, -102, 22, 6, INK, 0, 3) + R(390, -102, 22, 6, INK, 0, 3);
-  g += P("M6 -88 L26 -96 L28 -86 L8 -82 Z", "#f4efe3", 1.4 * sw);
+  g += P("M6 -88 L26 -96 L28 -86 L8 -82 Z", "#f4efe3", 1.4 * sw) + P("M226 -118 L246 -122 L248 -110 L230 -108 Z", BODY_D, 1.4 * sw);
   g += P("M566 -97 L574.5 -97 L576 -78 L567 -78 Z", TAIL, 1.4 * sw, o.hlTail ? ' style="filter:drop-shadow(0 0 ' + f(5 * o.hlTail) + 'px ' + ORANGE + ')"' : "") + '<path d="M567 -88 H575" stroke="#e7a08c" stroke-width="' + f(1.2 * sw) + '"/>';
   g += P("M570 -66 Q581 -64 580 -52 Q579 -44 568 -43 L562 -43 L562 -66 Z", "#bdb196", 1.8 * sw);
   // the lid: outer skin and the inner frame turn together round the gooseneck pivot; a kick makes it jolt
   var ang = -55 * ease(clamp(o.lid || 0)) - 1.4 * (o.shake || 0);
   g += G("rotate(" + f(ang) + " " + HINGE[0] + " " + HINGE[1] + ")", lidInner(sw, o.lidIn) + P(LID, BODY, 2.2 * sw) + '<path d="' + LID + '" fill="url(#hatch)" opacity=".3"/>');
+  if (o.over) g += o.over(t);   // what sits in front of the lid's parts: the fingers closed round the handle
   return G("translate(" + f(o.x) + " " + f(o.y) + ") scale(" + f(sc) + ") translate(-570 0)", g);
 }
 
@@ -102,7 +110,7 @@ function trapped(o) {
   var legs = o.feet.map(function (a, i) { var L = legTo(hip, a, rot); L.ankle = (o.ankle && o.ankle.length ? o.ankle[i] : o.ankle) || 0; return L; });
   var rest = [[hip[0] - 14, FLOOR - 1], [hip[0] - 20, FLOOR - 1]];
   var arms = [0, 1].map(function (i) { var w = (o.hands && o.hands[i]) || rest[i], A = armTo(sh, w, rot, o.straight && o.straight[i]); A.hand = (o.hk && o.hk[i]) || "flat"; if (o.wrist) A.wrist = o.wrist[i]; return A; });
-  var P_ = PERSON.side({ x: hip[0], y: hip[1], s: PS, dir: DIR, rot: rot, outfit: { base: "casual", colors: { shirt: "#b9c7d4", shirtD: "#93a4b4", pants: "#4b5a6e", pantsD: "#38445a" } }, breath: (Math.sin(t * 3.1) + 1) / 2, legs: legs, arms: arms,
+  var P_ = PERSON.side({ x: hip[0], y: hip[1], s: PS, dir: DIR, rot: rot, outfit: { base: "casual", jeans: true, feet: "sneakers", colors: { shirt: "#c4d2de", shirtD: "#93a4b4", pants: "#4a5d78", pantsD: "#36465e", shoes: "#5d6470", shoesD: "#474c56" } }, breath: (Math.sin(t * 3.1) + 1) / 2, legs: legs, arms: arms,
     head: { tilt: o.tilt || 0 }, face: Object.assign({ eyes: 1.2, brows: "worried", mouth: "open" }, o.face || {}) });
   return P_.svg;
 }
@@ -119,6 +127,10 @@ function reachPose(hand, t, o) {
   o = o || {};
   return trapped(Object.assign({ hip: HIP_R, rot: -34, feet: FEET_R, ankle: 0, hands: [hand, [486, FLOOR - 1]], hk: ["fist", "flat"], wrist: [0, 70], t: t, tilt: -16, face: { eyes: 1.1, brows: "angry", mouth: "neutral" } }, o));
 }
+// the fingers closed round the handle's stem (drawn over the handle): the front of the fist, three creases
+function gripFingers(p, k) { p = p || GRIP; var c = PERSON.colors, g = ""; [-2.1, 0, 2.1].forEach(function (dx, i) { g += '<rect x="' + f(p[0] + dx - 1.05) + '" y="' + f(p[1] - 2.3 + i * .3) + '" width="2.1" height="' + f(4.4 - i * .3) + '" rx="1" fill="' + c.skin + '" stroke="' + INK + '" stroke-width=".7"/>'; }); return G("", g, k == null ? 1 : k); }
+// the wrist target that puts the fist's middle on point p, coming from the shoulder
+function wristFor(p, hip, rot) { var sh = kitW(hip[0], hip[1], rot, [-2, -117]), dx = p[0] - sh[0], dy = p[1] - sh[1], L = Math.hypot(dx, dy); return [p[0] - dx / L * 6, p[1] - dy / L * 6]; }
 function kickK(t, per) { var p = (t % per) / per; return p < .25 ? ease(p / .25) : 1 - ease((p - .25) / .75); }
 function kickHit(t, per) { var p = (t % per) / per; return p > .22 && p < .4 ? 1 - Math.abs(p - .28) / .12 : 0; }
 // impact star at a hit
@@ -185,7 +197,7 @@ function latchCut(cx, cy, s, open, hl, t) {
 // rear bumper at world (X, Y); Wp(local) gives the world point of a local car point.
 var X = 610, Y = 690, S = 3.6;
 function Wp(p, x, y, sc) { return [(x || X) + (p[0] - 570) * (sc || S), (y || Y) + p[1] * (sc || S)]; }
-var HD = [557, -101];   // where the handle hangs under the lid (local)
+var HD = [557, -101], GRIP = [HD[0] + .4, HD[1] + 8.4];   // where the handle hangs under the lid (local)
 function handleSmall(gl, pull, t) { return '<g transform="translate(' + HD[0] + ' ' + HD[1] + ') scale(.085)">' + handleT(0, 0, 1, gl, pull, t) + '</g>'; }
 function road(t, y, run) { return R(-600, y, 1840, 400, "#cbc2ad", 0) + '<path d="M-600 ' + y + ' H1240" stroke="' + INK + '" stroke-width="2.4"/>' + '<path d="M-600 ' + f(y + 50) + ' H1240" stroke="#efe9da" stroke-width="6" stroke-dasharray="54 40" stroke-dashoffset="' + f((run || 0) * t * 90) + '"/>'; }
 var FACE_KICK = { eyes: 1.25, brows: "angry", mouth: "open" };
@@ -230,8 +242,8 @@ shot(8, push(330, 420, 1.0, 1.04), function (u, d, t) {
 // 9 · «اسحبه، وبعدين زق الغطا لفوق.» — the fist pulls the handle down, the latch lets go, both hands push the lid up
 function lidPt(p, lid) { var a = D2R(-55 * ease(clamp(lid))), dx = p[0] - HINGE[0], dy = p[1] - HINGE[1]; return [HINGE[0] + dx * Math.cos(a) - dy * Math.sin(a), HINGE[1] + dx * Math.sin(a) + dy * Math.cos(a)]; }
 shot(9, push(330, 430, 1.0, .9), function (u, d, t) {
-  var pull = at(u, .3, .5), lid = .6 * at(u, 1.3, 1.6), g = [HD[0] - 1, HD[1] + 10 + 4 * pull], hk = lid;
-  return paper() + road(0, Y) + car({ x: X, y: Y, sc: S, t: t, lid: lid, lidIn: handleSmall(1, pull * (1 - clamp(lid * 3)), t), people: function (tt) {
+  var pull = at(u, .3, .5), lid = .6 * at(u, 1.3, 1.6), gp = [GRIP[0], GRIP[1] + 3.4 * pull * (1 - clamp(lid * 3))], g = wristFor(gp, HIP_R, -34), hk = lid;
+  return paper() + road(0, Y) + car({ x: X, y: Y, sc: S, t: t, lid: lid, lidIn: handleSmall(1, pull * (1 - clamp(lid * 3)), t), over: function () { return lid < .02 ? gripFingers(gp) : ""; }, people: function (tt) {
       var h0 = lid > 0 ? lidPt([512, -122], hk) : g, h1 = lid > 0 ? lidPt([496, -124], hk) : null;
       if (lid > 0 && lid < .15) h0 = L2(g, h0, lid / .15);
       return reachPose(h0, tt, { rot: lerp(-34, -4, lid / .6), hands: [h0, h1 ? (lid < .15 ? L2([462, -54], h1, lid / .15) : h1) : null], hk: ["fist", lid > 0 ? "flat" : "relaxed"], wrist: lid > 0 ? [-80, -80] : null,
@@ -261,6 +273,6 @@ SCENE.intro = function (svg, t, li) {
 };
 SCENE.bumper = function (u, t) { return '<g transform="translate(90 40) scale(.55)">' + handleT(0, 20, 1, 1, 0, t) + '</g>'; };
 SCENE.outro = function (svg, u, t) {
-  return car({ x: 590, y: 270, sc: .98, t: t, lidIn: handleSmall(1, 0, t), people: function (tt) { return reachPose([HD[0] - 1, HD[1] + 10], tt, { face: { eyes: 1, brows: "raised", mouth: "smile" } }); } }) +
+  return car({ x: 590, y: 270, sc: .98, t: t, lidIn: handleSmall(1, 0, t), people: function (tt) { return reachPose(wristFor(GRIP, HIP_R, -34), tt, { face: { eyes: 1, brows: "raised", mouth: "smile" } }); }, over: function () { return gripFingers(); } }) +
     callout("1", 470, 60, ease(u / .3)) + callout("2", 548, 120, ease(u / .3 - .5)) + callout("3", 120, 60, ease(u / .3 - 1)) + callout("4", 380, 120, ease(u / .3 - 1.5));
 };

diff --git a/videos/trunk-escape/refs/SOURCES.md b/videos/trunk-escape/refs/SOURCES.md
@@ -14,3 +14,14 @@
 - قطاع الشنطة: ضهر الكنبة اللي ورا بالحزام، ورف الشباك اللي ورا، وأرضية بموكيت وتحتها الاستبن نايم في حفرته، والغطا من جوه (إطار بفتحات) على مفصلتين مقوّستين (gooseneck)، والقفل في آخر الغطا والحلقة على العتبة، وضهر بيت الفانوس في الركن. ويكيميديا لسه رافض التحميل من السيشن دي (429)، فالقطاع مرسوم من التشريح المعروف للشنطة.
 - الولد ضهره للكنبة ووشه وجسمه ناحية الغطا وورا العربية (تصحيح صاحب القناة).
 - الشخص: عُدّة الأشخاص المشتركة `_templates/people/person.js`، لبس casual. الرجلين والدراعين بيتحطوا بمكان القدم والإيد (IK على أطوال الجسم الحقيقية)، والركبة والكوع بيتنوا في الاتجاه الصح بس.
+
+## صور حقيقية اتبص عليها (Wikimedia Commons، `refs/photos/trunks-open.jpg`)
+- File:Trunk_Open_-_2015_BMW_M3_(15383973714).jpg (HighTechDad، CC BY 2.0): المفصلات المقوّسة، والفتحة والعتبة.
+- File:1966_Ford_Custom_4_door_sedan_trunk_open.jpg: الغطا من جوه (ضلوع وفتحات)، والاستبن، والحلقة الحديد في نص العتبة، والفوانيس على الركن.
+- File:Bordeaux_Bentley_Mulsanne_trunk_IAA_2011.jpg: بطانة الموكيت، وبيت العجلة جوه الشنطة، وجلدة الكاوتش حوالين الفتحة.
+
+## عُدّة الأشخاص (تحسين في المنظر الجانبي، لكل الحلقات)
+- الراس بيلف على أعلى الرقبة، والرقبة شكل واحد ناعم من الياقة للفك.
+- ديل التيشيرت/البلوفر عند الحزام، وتحته قعدة البنطلون.
+- كُم قصير بكتف مدوّر، وقبضة مقفولة حقيقية من الجنب (pFistSide)، والدراع البعيد بلون أفتح.
+- خيار `jeans: true` (تيلة الخياطة) و`feet: "sneakers"` (كوتشي بنعل أبيض).
